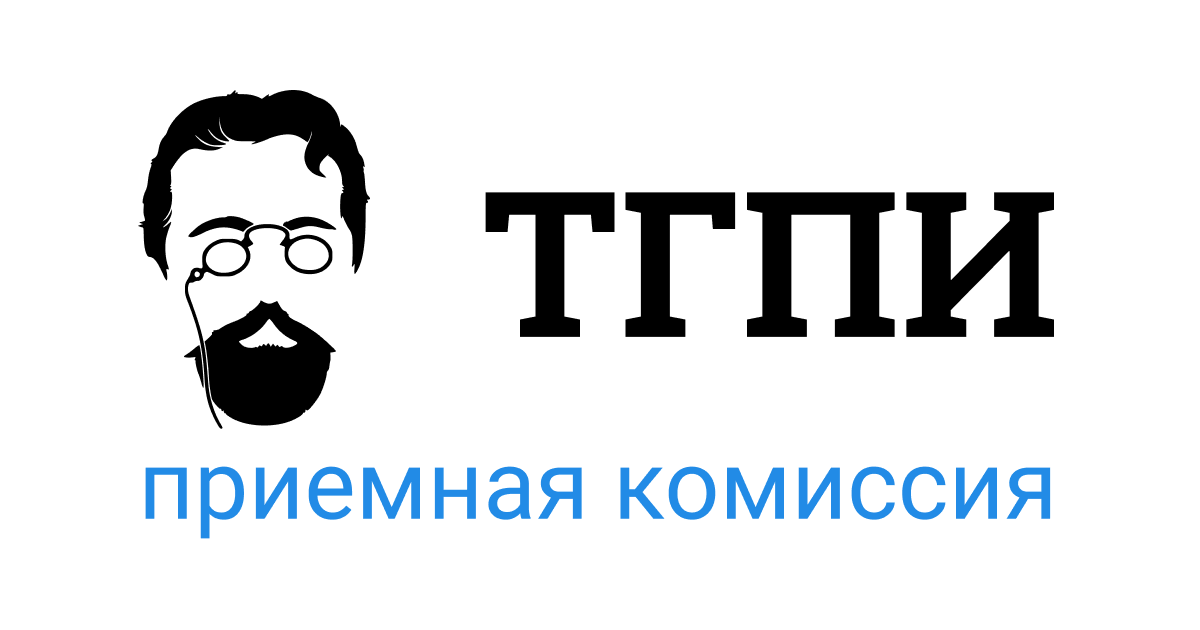
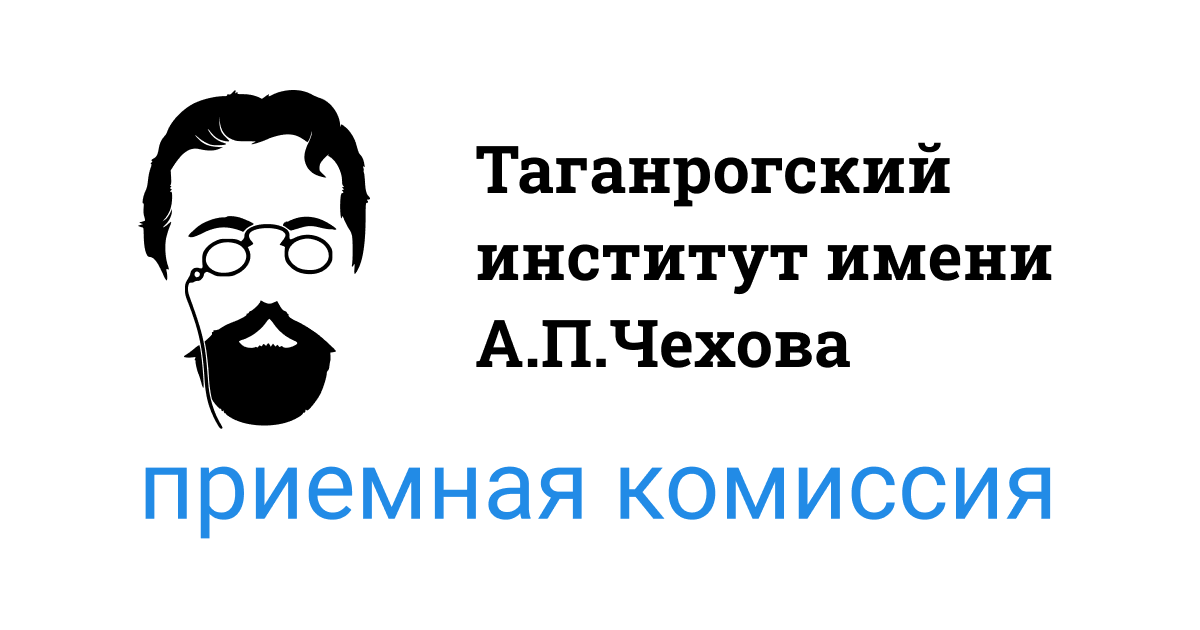
new seo

Changed region(s): [[0.4008, 0.2111, 0.8942, 0.6032]]

diff --git a/pages/_app.tsx b/pages/_app.tsx
@@ -33,7 +33,10 @@ export default function App({ Component, pageProps }: AppProps) {
           content="https://grade-calculator-woad.vercel.app/"
         />
         <meta name="twitter:title" content="Калькулятор ЕГЭ" />
-        <meta name="twitter:description" content="Приемная комиссия ТГПИ" />
+        <meta
+          name="twitter:description"
+          content="Приемная комиссия ТИ имени А.П.Чехова"
+        />
         <meta name="twitter:image" content="/twitter-image.png" />
         <link rel="shortcut icon" href="/favicon.svg" />
       </Head>

diff --git a/utils/meta.ts b/utils/meta.ts
@@ -2,7 +2,7 @@ import type { MetaConfig } from "@/types";
 
 export const getWebsiteMeta = (
   title: string = "Калькулятор ЕГЭ",
-  description: string = "Приемная комиссия ТГПИ",
+  description: string = "Приемная комиссия ТИ имени А.П.Чехова",
   image?: string,
 ): MetaConfig => {
   const defaultTitle = title;
